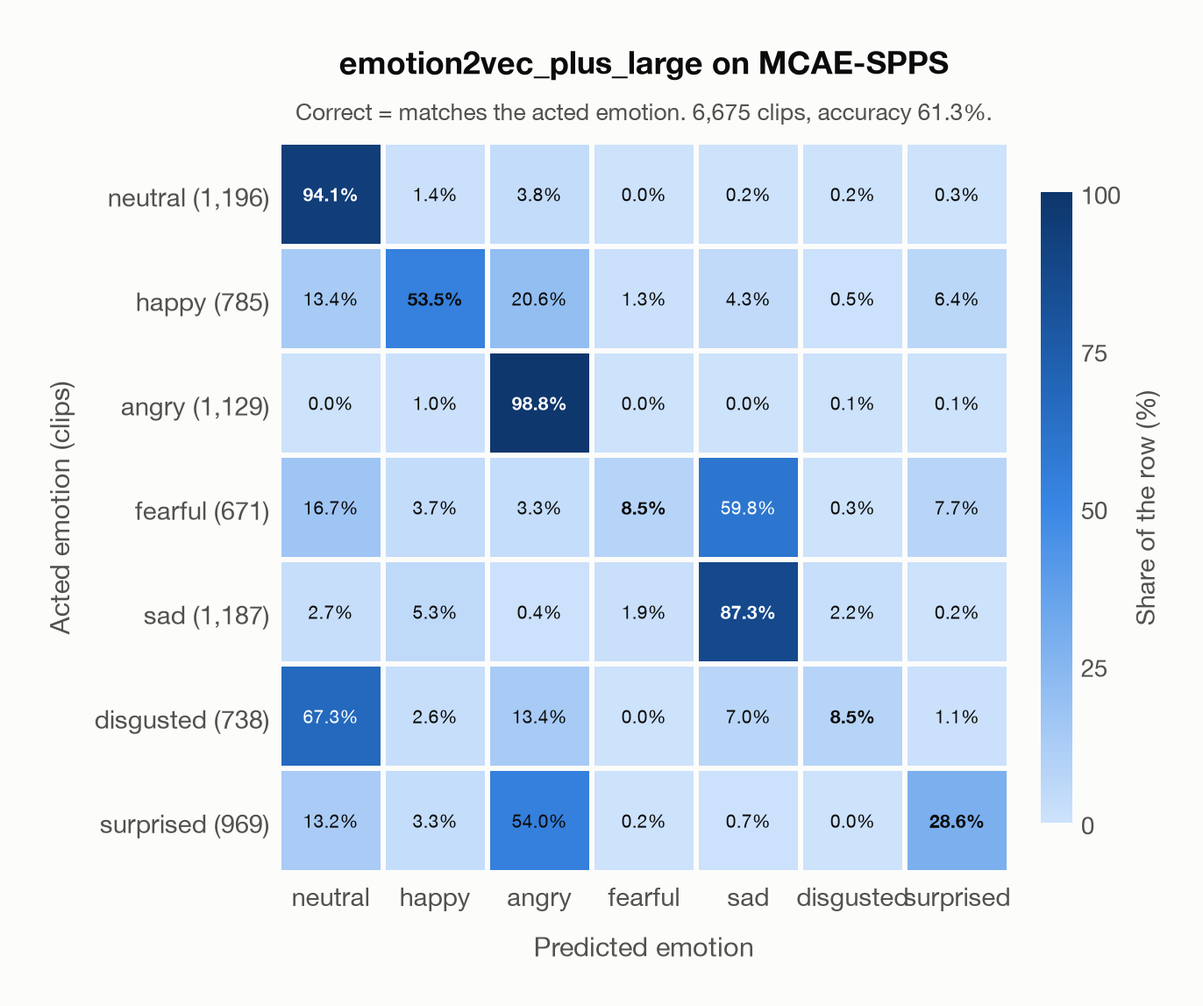
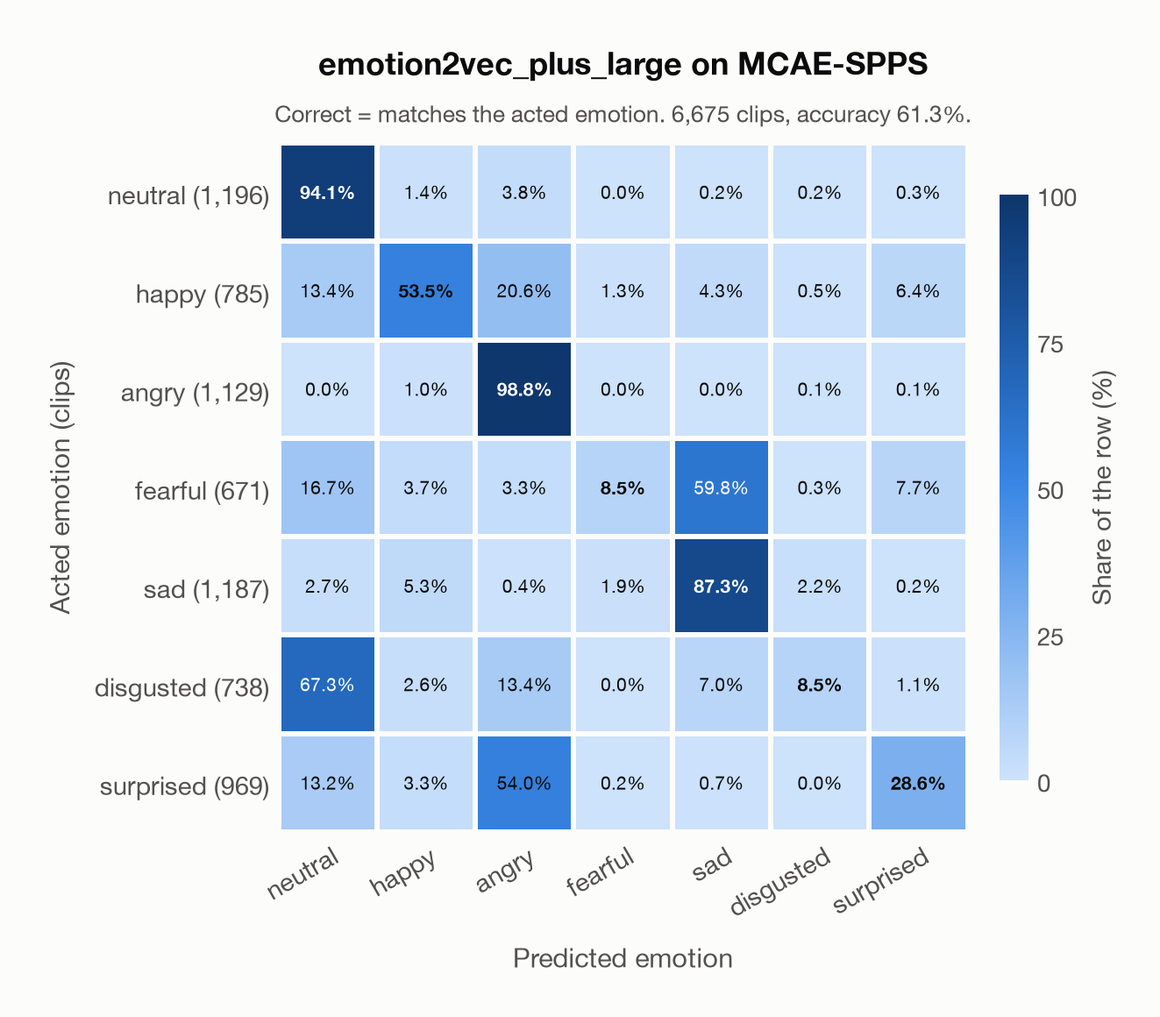
Add an English version of the dataset survey and all confusion matrices to the summary
- docs/datasets_survey_en.md: the survey in English, with the same tables and links as the Chinese one.
- The summary now shows every dataset's confusion matrix in one 2 x 3 figure, stitched from the reports'
  figures; CREMA-D uses its "acted emotion or listeners' vote" matrix (evaluation.summary_acted_or_listener).
- Confusion-matrix figures tilt the emotion names when there are 7 or more, so they no longer touch
  (MCAE-SPPS figures redrawn from its predictions).

Changed region(s): [[0.062, 0.0305, 0.9607, 0.9765], [0.031, 0.3357, 0.062, 0.6408]]

diff --git a/scripts/evaluate.py b/scripts/evaluate.py
@@ -7,6 +7,7 @@ Runs the model on every clip of a dataset, compares each prediction with the dat
     outputs/<dataset>_<model>_predictions.csv          one row per clip (read by scripts/make_viewer.py)
     outputs/<dataset>_<model>_predictions.json         what the CSV contains, and the metrics
     reports/<model>_summary.md                         every evaluated dataset side by side
+    reports/figures/<model>_summary_confusion.png      every dataset's confusion matrix in one figure
 The datasets are defined in scripts/eval_datasets.py; download them first with scripts/download_data.py.
 
 Usage:
@@ -99,7 +100,9 @@ def plot_confusion(cm, names, title, subtitle, ylabel, path):
                     fontweight="bold" if r == c else "normal", color=text_on(cmap(share[r, c] / 100)[:3]))
     ax.invert_yaxis()  # first emotion at the top, like the table
     ax.set_aspect("equal")  # square cells
-    ax.set_xticks(np.arange(len(names)) + 0.5, names)
+    crowded = len(names) > 6  # with 7 or more emotions the names would touch: tilt them
+    ax.set_xticks(np.arange(len(names)) + 0.5, names, rotation=30 if crowded else 0,
+                  ha="right" if crowded else "center", rotation_mode="anchor")
     ax.set_yticks(np.arange(len(names)) + 0.5, [f"{n} ({cm[k].sum():,})" for k, n in enumerate(names)])
     ax.tick_params(length=0, colors=INK_2, labelsize=10.5)
     ax.set_xlabel("Predicted emotion", color=INK_2, fontsize=11, labelpad=8)
@@ -116,6 +119,18 @@ def plot_confusion(cm, names, title, subtitle, ylabel, path):
     path.parent.mkdir(parents=True, exist_ok=True)
     fig.savefig(path, facecolor=SURFACE, bbox_inches="tight", pad_inches=0.25)  # keep every label inside the image
     plt.close(fig)
+
+
+def stitch(paths, path, columns=3):
+    """Put figures side by side in a grid, row by row; each sits in the centre of a cell as large as the largest."""
+    from PIL import Image
+    images = [Image.open(p).convert("RGBA") for p in paths]
+    columns = min(columns, len(images))
+    w, h = max(im.width for im in images), max(im.height for im in images)
+    grid = Image.new("RGBA", (columns * w, -(-len(images) // columns) * h), SURFACE)
+    for k, im in enumerate(images):
+        grid.paste(im, ((k % columns) * w + (w - im.width) // 2, (k // columns) * h + (h - im.height) // 2), im)
+    grid.convert("RGB").save(path, optimize=True)
 
 
 class Predictor:
@@ -391,9 +406,10 @@ def shared_scores(run, shared):
     return len(rows), hit.mean(), np.mean([hit[truth == e].mean() for e in shared if (truth == e).any()])
 
 
-def write_summary(model_name):
+def write_summary(model_name, acted_or_listener=()):
     """reports/<model>_summary.md: one row per evaluated dataset, read from the JSON files in outputs/. A dataset with
-    a full run and a sample (evaluation.limit) is shown with the run that has the most clips."""
+    a full run and a sample (evaluation.limit) is shown with the run that has the most clips. The datasets in
+    acted_or_listener show their "acted emotion or listeners' vote" confusion matrix in the summary figure."""
     order = list(LOADERS)
     out = ROOT / "outputs"
     best = {}
@@ -430,6 +446,27 @@ def write_summary(model_name):
           if sampled else []),
         "",
     ]
+    # Every dataset's confusion matrix (the figures of the reports) stitched into one figure
+    figures = ROOT / "reports" / "figures"
+    lenient = [r for r in runs if r["key"] in acted_or_listener
+               and (figures / f"{r['stem']}_confusion_acted_or_listener.png").exists()]
+    panels = [figures / f"{r['stem']}_confusion{'_acted_or_listener' if r in lenient else ''}.png" for r in runs]
+    panels = [p for p in panels if p.exists()]
+    if panels:
+        grid = figures / f"{model_name}_summary_confusion.png"
+        stitch(panels, grid)
+        summary += [
+            "## Confusion matrices",
+            "",
+            f"![Confusion matrices of {model_name} on every dataset]({grid.relative_to(ROOT / 'reports').as_posix()})",
+            "",
+            "One matrix per dataset, in the order of the table above, from each dataset's report. Rows: acted emotion; "
+            "columns: predicted emotion; each row adds up to 100%."
+            + (f" {', '.join(r['dataset'] for r in lenient)}: the matrix where a prediction also counts as correct when "
+               "it matches the listeners' vote, so a clip whose prediction matched that vote sits in the row of that vote "
+               "(`evaluation.summary_acted_or_listener` in config/config.yaml)." if lenient else ""),
+            "",
+        ]
     # The same comparison on the emotions that every dataset has, so that the choice of emotions does not matter
     shared = sorted(set.intersection(*(set(r["classes"]) for r in runs))) if len(runs) > 1 else []
     if shared:
@@ -527,7 +564,7 @@ def main():
     # Steps 4-6 for every dataset, then a summary of all evaluated datasets
     for key in keys:
         evaluate(LOADERS[key](), predict, labels, model_name, device, limit, {"funasr": funasr.__version__})
-    write_summary(model_name)
+    write_summary(model_name, settings["summary_acted_or_listener"])
 
 
 if __name__ == "__main__":

diff --git a/docs/datasets_survey_en.md b/docs/datasets_survey_en.md
@@ -1,0 +1,163 @@
+# Survey of emotional speech datasets like CREMA-D
+
+English translation of [datasets_survey.md](datasets_survey.md) (Chinese); the two have the same content.
+
+Survey date: 2026-10-23. Goal: find datasets that, like CREMA-D, have the same sentences spoken in different emotions (so
+the words give no clue), high-quality labels and more data, to evaluate emotion recognition models and audio large
+language models (audio LLMs).
+
+Method: searched papers, official project pages, GitHub, Hugging Face, Zenodo, OSF and similar sources, and collected the
+information on each dataset.
+Sizes are in decimal GB, from the file listings of each platform's API or from HTTP requests; "about" marks an estimate,
+and "not published" means the platform gives no size.
+"Unverified" marks numbers that could not be confirmed from a primary source. ✅ marks the datasets downloaded locally
+(see section 6); for these, the number of clips, the duration and the sampling rate were measured after downloading.
+
+## 0. Key points
+
+- **CREMA-D itself is in EmoBox**, so emotion2vec+'s results on CREMA-D are not held-out results.
+  ESD, MEAD, RAVDESS, TESS, SAVEE, EmoDB, CASIA, Emozionalmente, SUBESCO, JL-Corpus, CaFE, EMOVO and EmoV-DB from the candidate list are in EmoBox too.
+- **What is public about emotion2vec+'s training data:**
+  - seed was fine-tuned on the academic data of EmoBox (201 h). EmoBox has about 294 h in total, and the subsets used are not listed, so to be safe all of EmoBox is treated as data the model has seen.
+  - base and large were fine-tuned on "filtered large-scale pseudo-labelled data" (4,788 h and 42,526 h). The authors say the data engineering details will be published later; the sources of the pseudo-labelled data are unknown, so no public dataset can be ruled out 100%.
+  - emotion2vec's pre-training used IEMOCAP, MELD, CMU-MOSEI, MEAD and MSP-Podcast.
+- **Best "clean" candidates (none in EmoBox)**: MCAE-SPPS (Mandarin, 2025/26), THAI-SER (Thai, the largest), the target sentences of MSP-IMPROV (English), nEMO (Polish, 2024).
+- **English**: no dataset was found that is large, text-parallel, perceptually validated and not in EmoBox all at once; the only option is to combine MSP-IMPROV, MESS and Expresso.
+- **Evidence for this approach**: [LISTEN](https://arxiv.org/abs/2510.10444) (2025) tested audio LLMs on the text-neutral sentences of CREMA-D, ESD, TESS, SAVEE and RAVDESS.
+  With audio only, accuracy was just 16.5–34.9% ([Qwen2.5-Omni](https://arxiv.org/abs/2503.20215) 34.0%, [Gemini 2.5 Pro](https://arxiv.org/abs/2507.06261) 34.9%); with text only it was 85–97%.
+  So these models rely mainly on "turning speech into text" rather than really listening to the voice.
+
+## 1. High-quality datasets (not in EmoBox)
+
+| # | Dataset (year, language) | Speakers / clips / duration / **size** | Emotions; intensity | Parallel-text design | Label quality | Audio; modality | Licence; access | Links |
+|---|---|---|---|---|---|---|---|---|
+| 1 | **MCAE-SPPS** ✅ (DataPort 2025-01, Sci Data 2026-03; Mandarin) | 6 professional actors (3 male, 3 female) / 6,675 clips (8,400 recorded, 8,379 rated) / 2.3 h / **0.65 GB** (7 zips, one per emotion) | neutral, happy, sad, angry, fearful, disgusted, surprised, one-to-one with the emotion2vec+ classes; perceived intensity ratings (1–9) | 200 sentences × 7 emotions × 6 actors | each clip rated by 40 native listeners (choice of 1 of 7 emotions plus intensity; 720 listeners in total); a clip was kept if the target emotion got ≥43% of the votes and every other emotion <43%; recognition rate per emotion 60–82% (figures of the DataPort version) | professional sound-proof booth, 48 kHz mono; audio only | CC BY-NC-ND 4.0; public on OSF. Note: on OSF the per-emotion zips hold all 6,675 clips, the loose per-emotion folders only 6,460; the IEEE DataPort copy needs a subscription | [OSF 9jyzc](https://osf.io/9jyzc/); [IEEE DataPort (subscription)](https://ieee-dataport.org/documents/mandarin-chinese-auditory-emotions-stimulus-database-validated-set-subject-personal) |
+| 2 | **THAI-SER** ✅ (data 2021, paper 2025; Thai) | 200 professional actors / 27,854 clips (scripted ≈17,711 + improvised ≈10,143) / 41.6 h / **12.71 GB** (HF Parquet; GitHub zip version 12.61 GB) | neutral, angry, happy, sad, frustrated; 2 acted intensity levels in the scripted part | scripted part: 3 sentences × 5 emotions × 2 intensities × 2 takes; the improvised part is not parallel | crowd-sourced, 3–8 raters per clip; gives both the assigned label and the majority label, plus the agreement; after filtering Krippendorff's α = 0.692, human accuracy 0.772; high-agreement subset (agreement ≥0.71) of 14,182 clips | 80 studio sessions (one type of room not sound-treated) + 20 Zoom sessions; 44.1 / 48 kHz; up to 4 microphones per clip; audio only | **CC BY-SA 4.0** (commercial use allowed); direct download | [HF airesearch/thai-ser](https://huggingface.co/datasets/airesearch/thai-ser); [GitHub release v1](https://github.com/vistec-AI/dataset-releases/releases/tag/v1) |
+| 3 | **MSP-IMPROV** (2017; American English) | 12 actors (6 pairs) / 8,438 turns in total; the controlled-text part is 652 target sentences + 620 read sentences / duration unverified / **not published** (provided after signing an agreement, includes video) | angry, happy, sad, neutral; no acted intensity, but dimensional ratings of valence and arousal | 20 target sentences × 4 emotional scenarios × 12 actors; the target sentences are spoken inside improvised dialogues, plus read versions | crowd-sourced on MTurk, ≥5 raters per turn | audio and video; sampling rate unverified | academic licence, agreement required; commercial licence USD 8,000 | [Official page (moved to lab-msp.com)](https://www.lab-msp.com/MSP/MSP-Improv.html); [Academic licence PDF](https://www.lab-msp.com/MSP/publications/AcademicLicense-MSP-IMPROV.pdf) |
+| 4 | **nEMO** ✅ (2024; Polish) | 9 speakers (4 female, 5 male; 3 are professional voice actors) / 4,481 clips / 3.07 h / **0.53 GB** (HF Parquet) | angry, fearful, happy, sad, surprised, neutral; no intensity | 90 sentences (designed for phoneme coverage) × 6 emotions × 9 speakers | human evaluation kept only recordings with accurate expression (about 92% kept, estimated from 4,860); no agreement figures reported | recorded at home with condenser microphones, 24 kHz / 16-bit; audio only | CC BY-NC-SA 4.0; direct download | [HF amu-cai/nEMO](https://huggingface.co/datasets/amu-cai/nEMO); [GitHub](https://github.com/amu-cai/nEMO) |
+| 5 | **HCUDB 1+2** (release year unverified, funded in fiscal years 2014–2016; Japanese) | 14 + 20 professional actors / 4,620 + 6,600 clips / duration unverified / **not published** (distributed on 1 DVD, ≤4.7 GB) | 11 classes (based on Russell's circumplex model of emotion, including surprise, anger, contempt and sleepiness/tiredness); no acted intensity | HCUDB1: 10 sentences × 11 emotions × 3 takes; HCUDB2: 5 of these sentences × 11 emotions × 3 takes × 2 acting methods | in HCUDB1 each clip was rated by 16 people (valence/arousal, how well each class fits, naturalness); HCUDB2 has no ratings | 48 kHz / 16-bit; audio only | research only, free; application required, documents in Japanese | [NII-SRC HCUDB](https://research.nii.ac.jp/src/en/HCUDB.html); [NII-SRC application](https://research.nii.ac.jp/src/en/register.html) |
+| 6 | **MCAE pseudo-sentences** (2023; Mandarin pseudo-sentences) | 6 professional actors / 4,361 clips after validation (the OSF Audio folder has 4,561 files) / duration unverified / **2.42 GB** (loose files, no zip) | happy, sad, angry, fearful, disgusted, pleasant surprise, neutral; 2 intensity levels (normal / strong, except neutral) | pseudo-sentences without word meaning × 2 sentence types (statement / question) × 7 emotions × 2 intensities | each clip judged by 40 native listeners (forced choice) | sampling rate unverified; audio only | licence unverified; OSF view-only link | [OSF view-only link (project name MCAE-NS)](https://osf.io/sfbm6/?view_only=e22a521e2a7d44c6b3343e11b88f39e3) |
+| 7 | **MESS** ✅ (2019; American English) | 6 speakers (3 male, 3 female) / 1,800 clips (public Zenodo version; designed as 90 sentences × 4 emotions × 6 speakers = 2,160) / 1.3 h / **0.19 GB** (zip) | angry, calm, happy, sad; perceived activation and pleasantness ratings | 90 sentences × 4 emotions × 6 speakers | in the paper each clip was rated by 10 listeners (category + two dimensions), but **the ratings must be requested from the author**; the Zenodo package has only the acted labels (in the file names) | 24,414 Hz mono; audio only | CC BY 4.0; direct download (note: not the MESD that is in EmoBox) | [Zenodo 3813437](https://zenodo.org/records/3813437) |
+| 8 | **MASC** (LDC2007S09, 2007; Mandarin) | 68 speakers (23 female, 45 male) / 25,636 clips / duration not published / **not published** (about 0.5 GB, estimated from 8 kHz / 16-bit, plus the original WMA files) | neutral, angry, elated, panic, sad; no intensity | in every emotion the same set of 5 phrases and 20 sentences (12 with neutral content; the other 8, 2 for each of the four emotions), each read 3 times; plus 2 neutral paragraphs | acted labels only; the documentation mentions no listening test | recorded with a voice recorder in a quiet office (22.05 kHz); released as 8 kHz / 16-bit, with the original 44 kHz WMA files | LDC licence, paid for non-members | [LDC2007S09](https://catalog.ldc.upenn.edu/LDC2007S09) |
+
+**Why this ranking:**
+
+1. **MCAE-SPPS**: the closest to "a better CREMA-D". Parallel design, perceptual labels from 40 listeners and intensity ratings for every clip; its 200 sentences have far more lexical variety than CREMA-D's 12;
+   its 7 classes match those of emotion2vec+ exactly. Released only in 2025, and no record was found of any audio LLM trained or evaluated on it.
+   Drawbacks: only 6 speakers; NC-ND licence.
+   Citation: Li M, Zhou A, Yan H, Li Q, Ma C, Wu C. *Scientific Data*, 2026, doi:10.1038/s41597-026-06976-z; data doi:10.17605/OSF.IO/9JYZC.
+2. **THAI-SER**: the most speakers, crowd-sourced perceptual labels with agreement, two intensity levels, and the most permissive licence.
+   Drawbacks: the scripted part has only 3 sentences; "frustrated" has no counterpart in emotion2vec+, so using only neutral, angry, happy and sad is recommended.
+   [VoxEmo](https://arxiv.org/abs/2603.08936) (2026) has already used it for zero-shot evaluation of [Qwen2-Audio](https://arxiv.org/abs/2407.10759) and [AF3](https://arxiv.org/abs/2507.08128) (evaluation only, no training). Citation: arXiv:2507.09618.
+3. **MSP-IMPROV**: the most established English data with "controlled text + crowd-sourced perceptual labels + not in EmoBox".
+   Drawbacks: the controlled-text part has only about 1.3k clips, an agreement must be signed, and [OSUM](https://arxiv.org/abs/2501.13306) has used it as a test set. Citation: Busso et al., IEEE TAC 8(1):119–130, 2017.
+4. **nEMO**: new data from 2024, fully parallel, direct download; its emotions are close to CREMA-D's (no disgust, but surprise).
+   Drawbacks: small, recorded at home; VoxEmo has evaluated on it. Citation: Christop, LREC-COLING 2024, pp. 12111–12116.
+5. **HCUDB**: 34 professional actors and 11,220 clips, with the same sentences recorded in many emotions; HCUDB1 has dimensional ratings, useful for intensity analysis.
+   Drawbacks: mapping its 11 classes to emotion2vec+ needs compromises; the application process is in Japanese.
+6. **MCAE pseudo-sentences**: word meaning is removed completely, so a model can only judge by the voice; the best test of "does the model really listen"; two intensity levels. Drawback: fewer clips than CREMA-D.
+   Citation: Gong et al., *Behavior Research Methods* 55(3):1441–1459, 2023.
+7. **MESS**: a small English supplement, parallel, CC BY licence. Drawbacks: "calm" instead of "neutral", only 4 classes; the public version has acted labels only.
+   Citation: Morgan, JSLHR 62(11), 2019.
+8. **MASC**: the only Mandarin data with "many speakers + large + parallel", useful to test generalisation across speakers. Drawbacks: 8 kHz, no listening test, paid.
+
+## 2. High-quality datasets (in EmoBox)
+
+These datasets are in EmoBox, so they cannot serve as clean test sets for emotion2vec+, but they can be used to test audio LLMs, or as a reference.
+
+| Dataset (year, language) | Scale / **size** | Emotions; intensity | Parallel design | Labels | Audio; licence | Known use by audio LLMs | Links |
+|---|---|---|---|---|---|---|---|
+| ESD ✅ (2021, English + Mandarin) | 20 speakers / 35,000 clips / 29.1 h / **2.45 GB** (zip) | 5 classes; no intensity | 350 sentences × 5 emotions per speaker | acted labels only; the paper checked them only with an automatic emotion recognition model (Mandarin 92%, English 89%), no listening test | recorded indoors, SNR > 20 dB, 16 kHz; research only, apply with a form and an email | [Kimi-Audio](https://arxiv.org/abs/2504.18425) SFT (29 h); [OSUM](https://arxiv.org/abs/2501.13306) training and test; [LISTEN](https://arxiv.org/abs/2510.10444); [VoxEmo](https://arxiv.org/abs/2603.08936) | [GitHub (licence form + Google Drive link)](https://github.com/HLTSingapore/Emotional-Speech-Data) |
+| MEAD (2020, English) | 60 speakers (the public Part0 has only 48, confirmed) / 31,729 clips / 37.3 h / **audio 3.07 GB** (audio.tar of the 48 speakers); video about 0.4 TB | 8 classes; 3 intensity levels | 30 sentences per emotion (3 common + 7 related to that emotion + 20 general), with a different sentence list for each emotion; the intensities of one emotion use the same sentences | video evaluation with 100 participants | 48 kHz, audio and video; terms of use | [emotion2vec](https://arxiv.org/abs/2312.15185) pre-training; [VoxEmo](https://arxiv.org/abs/2603.08936) | [Google Drive Part0](https://drive.google.com/drive/folders/1GwXP-KpWOxOenOxITTsURJZQ_1pkd4-j); [Baidu Netdisk (extraction code th8e)](https://pan.baidu.com/s/1zYKz19kmQH6vnO2nogPk4Q); [GitHub](https://github.com/uniBruce/Mead) (the official project page now returns 404) |
+| RAVDESS (2018, English) | 24 speakers / 1,440 clips / 1.5 h / **speech audio 0.208 GB**; everything (with song and video) 25.6 GB | 8 classes; 2 intensity levels | 2 sentences | each file rated 10 times (247 raters in total) | 48 kHz, audio and video; CC BY-NC-SA | [Kimi-Audio](https://arxiv.org/abs/2504.18425) SFT; [AF1](https://arxiv.org/abs/2402.01831)/[AF2](https://arxiv.org/abs/2503.03983) zero-shot evaluation | [Zenodo 1188976](https://zenodo.org/records/1188976) |
+| Emozionalmente (Italian) | 431 speakers / 6,902 clips / 6.3 h / **0.559 GB** (v1.1) | 7 classes | 18 sentences | 829 listeners, 5 ratings per clip, human UAR 66% | 16 kHz, non-professional equipment; CC BY 4.0 | [VoxEmo](https://arxiv.org/abs/2603.08936) | [Zenodo 12616095 (v1.1)](https://zenodo.org/records/12616095); [OpenSLR 161](https://openslr.org/161/) |
+| SUBESCO (2021, Bangla) | 20 speakers / 7,000 clips / 7.8 h / **1.665 GB** | 7 classes | 10 sentences × 5 takes | 50 raters, 71% accuracy | CC BY 4.0 | [VoxEmo](https://arxiv.org/abs/2603.08936) | [Zenodo 4526477](https://zenodo.org/records/4526477) |
+| CaFE (2018, Canadian French) | 12 speakers / 936 clips / **0.187 GB** (48 kHz version; 192 kHz version 2.03 GB) | 7 classes; 2 intensity levels | 6 sentences | unverified | 192 kHz and 48 kHz; CC BY-NC-SA | [VoxEmo](https://arxiv.org/abs/2603.08936) | [Zenodo 1478765](https://zenodo.org/records/1478765) |
+| EmoDB / **EmoDB 2.0** (2025, German) | 10 speakers / 535 clips; version 2.0 adds 281 "ambiguous" clips (817 in total) / **0.041 GB** (original); version 2.0 about 0.11 GB | 7 classes | 10 sentences | agreement and naturalness ratings from 20 judges | recorded in an anechoic chamber; the audb version 2.0 is CC0-1.0 | the 281 new clips are not in EmoBox and can be used to test ambiguous samples | [Original emodb.bilderbar.info](http://emodb.bilderbar.info/); [audb emodb 2.0.0](https://github.com/audeering/emodb) ([description](https://audeering.github.io/datasets/datasets/emodb.html)) |
+| EMOVO (Italian) | 6 speakers / 588 clips / **0.253 GB** (unofficial Kaggle mirror) | 7 classes | 14 sentences | two groups of 24 listeners, 80% overall | — | [VoxEmo](https://arxiv.org/abs/2603.08936) | the official site voice.fub.it was unreachable on the day; [Kaggle mirror](https://www.kaggle.com/datasets/sourabhy/emovo-italian-ser-dataset); [DagsHub mirror](https://dagshub.com/DagsHub/audio-datasets/src/main/EMOVO) |
+| TESS (English) | 2 speakers / 2,800 clips / **0.281 GB** | 7 classes | 200 words × the carrier phrase "Say the word ___" | unverified | CC BY-NC 4.0 | [AF1](https://arxiv.org/abs/2402.01831) training | [Borealis Dataverse](https://borealisdata.ca/dataset.xhtml?persistentId=doi:10.5683/SP2/E8H2MF) |
+| SAVEE (British English) | 4 speakers / 480 clips / official version **not published**; unofficial audio-only Kaggle mirror 0.113 GB | 7 classes | 15 sentences per emotion, only 3 of them shared across emotions | 10 evaluators (the official site had a certificate error, so this could not be re-checked on the day) | audio and video | [Kimi-Audio](https://arxiv.org/abs/2504.18425) SFT | [Download page (log in after registering)](http://kahlan.eps.surrey.ac.uk/savee/Download.html); [Registration](http://www.ee.surrey.ac.uk/Personal/P.Jackson/SAVEE/Register.html); [Kaggle mirror](https://www.kaggle.com/datasets/ejlok1/surrey-audiovisual-expressed-emotion-savee) |
+| CASIA (Mandarin) | 4 speakers / 1,200 clips / official version **not published**; Kaggle mirror 0.059 GB (unofficial, licence unclear) | 6 classes | parallel (unverified) | acted labels only | licence unclear | [VoxEmo](https://arxiv.org/abs/2603.08936) | official source unverified; [Kaggle mirror](https://www.kaggle.com/datasets/rocklagoon/casia-emotion-recognition) |
+| JL-Corpus (New Zealand English) | 4 speakers / 2,400 clips / **0.948 GB** | 5 primary + 5 secondary emotions | unverified | tested with 120 people: about 70% for the primary emotions, about 40% for the secondary ones | CC0 | [AF1](https://arxiv.org/abs/2402.01831) training | [Kaggle (uploaded by the author)](https://www.kaggle.com/datasets/tli725/jl-corpus); [GitHub](https://github.com/tli725/JL-Corpus) |
+| EmoV-DB (English) | 4 speakers / 6,887 clips / 9.5 h / **about 1.41 GB** (18 tar.gz files) | neutral, amused, angry, disgusted, sleepy | CMU Arctic sentences, parallel across emotions | acted labels only; laughter or yawns often before or after the sentence | non-commercial | [AF1](https://arxiv.org/abs/2402.01831) training; EmoV-DB audio files appear in the SFT examples of the [Qwen-Audio](https://arxiv.org/abs/2311.07919) paper | [OpenSLR 115](https://openslr.org/115/); [GitHub](https://github.com/numediart/EmoV-DB) |
+
+Note: AF1 and AF2 are NVIDIA's Audio Flamingo 1 and 2; emotion2vec is the pre-trained model that emotion2vec+ builds on, not an audio LLM; LISTEN and VoxEmo are not models but papers that evaluate audio LLMs on these datasets (section 4 lists which models).
+
+## 3. Not in EmoBox, but small, not parallel, or with flawed labels or audio
+
+| Dataset (year, language) | Scale / **size** | Key design | Labels | Licence / access | Main problems | Links |
+|---|---|---|---|---|---|---|
+| **Expresso** (2023, English) | 4 speakers; read speech 11,615 clips / 11.5 h, improvised 34.4 h / **38.44 GB** (expresso.tar, with the improvised dialogues); the HF community mirror has only the read part, 5.76 GB | the same texts read in 7 styles (default, happy, sad, confused, enunciated, laughing, whisper) | no perceptual validation | CC BY-NC 4.0, open download | few emotions; the best audio quality (professional studio, 48 kHz / 24-bit); Meta's [SpiRit-LM](https://arxiv.org/abs/2402.05755) used it to train a style tokenizer | [Official download instructions](https://github.com/facebookresearch/textlesslib/tree/main/examples/expresso/dataset); [expresso.tar direct link](https://dl.fbaipublicfiles.com/textless_nlp/expresso/data/expresso.tar); [HF community mirror](https://huggingface.co/datasets/ylacombe/expresso) |
+| KESDy18 (2018, Korean) | 30 voice actors / 2,880 clips / **not published** | 20 sentences × 4 emotions | 6 annotators, 7 classes + arousal/valence (1–5) | ETRI licence agreement (site unreachable on the day) | — | [ETRI nanum](https://nanum.etri.re.kr/share/kjnoh2/KESDy18?lang=En_us) |
+| IITKGP-SEHSC (Hindi) | 10 speakers / 12,000 clips / about 9 h / **not published** (about 1 GB, estimated from 16 kHz / 16-bit) | 15 sentences × 8 emotions × 10 sessions | unverified | apply to IIT Kharagpur | 16 kHz | [Author's resource page](https://cse.iitkgp.ac.in/~ksrao/res.html); [Declaration PDF](https://cse.iitkgp.ac.in/~ksrao/pdf/declaration.pdf) |
+| CAVES (2024, Cantonese) | 10 speakers / 3,475 clips / **not published** (includes 1080p / 50 fps video) | 50 semantically neutral sentences × 7 emotions | 15 listeners | research only, application form | small (recorded in a sound-proof booth at 48 kHz, audio and video) | [Application form](https://forms.office.com/r/3VfeWQnAVa) |
+| OGVC acted part (Japanese) | 4 speakers / 2,656 clips / **not published** (the full set, with natural dialogues, is distributed on 2 DVDs) | the same lines recorded in different emotions, 4 intensity levels | unverified | NII-SRC, free | small | [NII-SRC OGVC](https://research.nii.ac.jp/src/en/OGVC.html); [NII-SRC application](https://research.nii.ac.jp/src/en/register.html) |
+| MCAE-Monosyllable (2025, Mandarin) | 6 speakers / 18,089 clips / **1.18 GB** (loose files) | 422 monosyllables × 7 emotions | 720 raters + intensity ratings | OSF | monosyllables only, not sentences | [OSF h3uem](https://osf.io/h3uem/) |
+| BERSt (2025, English with many accents) | 98 speakers / 4,526 clips / 3.75 h / **1.06 GB** (Parquet; original WAV 1.27 GB; whole repository 3.18 GB) | 14 nonsense phrases × 7 emotions × speaking/shouting/screaming | intended labels only | the Hugging Face card says CC BY, the paper CC BY-SA | actors recorded at home on their phones, including far-field recordings; not a clean test set | [HF Rosie-Lab/BERSt](https://huggingface.co/datasets/Rosie-Lab/BERSt) |
+| EmoTale (2025, Danish + English) | 18 speakers / 800 clips / **0.43 GB** | 5 sentences × 5 emotions | κ 0.71–0.85 | a copyright notice but no formal licence (GitHub) | very small | [GitHub](https://github.com/snehadas/EmoTale) |
+| Thorsten Emotional (2021, German) | 1 speaker / 2,400 clips / **0.399 GB** | 300 sentences × 8 styles | none | CC0 | a single speaker | [OpenSLR 110](https://openslr.org/110/); [Zenodo 5525023](https://zenodo.org/records/5525023) |
+| GEMEP (2012, pseudo-language) | 10 speakers; core set of 145 clips / **not published** | pseudo-language sentences, 18 classes | 1,260 clips validated | conditions of use must be signed; the full set is restricted | the accessible part is too small | [Core set page](https://www.unige.ch/cisa/gemep/coreset); [Conditions of use form (PDF)](https://www.unige.ch/cisa/download_file/view/143/304) |
+| EARS (2024, English) | 107 speakers, about 100 h in total / **69.17 GB** (107 zips, one per speaker; the emotional part cannot be downloaded on its own) | 22 emotions + neutral | none | CC BY-NC 4.0 | **not parallel**: each emotion uses different sentences whose content fits it, so the words themselves give the emotion away | [GitHub](https://github.com/facebookresearch/ears_dataset); [release "dataset"](https://github.com/facebookresearch/ears_dataset/releases/tag/dataset) |
+| CSEMOTIONS (2025, Mandarin) | 10 speakers / 4,160 clips / 10.2 h / **3.08 GB** (Parquet) | 7 classes | not reported | Apache-2.0 | **not parallel**, the text matches the emotion; usable as a "lexical cue" control | [HF ATH-MaaS/CSEMOTIONS](https://huggingface.co/datasets/ATH-MaaS/CSEMOTIONS) (formerly AIDC-AI/CSEMOTIONS, which redirects) |
+| KazEmoTTS (2024, Kazakh) | 3 speakers / 54,760 clips / 74.9 h / **10.46 GB** (EmoKaz.zip) | each sentence has only one emotion | only 22% for anger in the listening test | CC BY 4.0 | not parallel, poor label quality | [HF issai/KazEmoTTS](https://huggingface.co/datasets/issai/KazEmoTTS); [GitHub](https://github.com/IS2AI/KazEmoTTS) |
+| EmoNet-Voice Bench (2025) | 12,600 clips / **1.08 GB** (3 Parquet files) | 40 classes | expert annotation, Cronbach's α 0.14 | CC BY 4.0 | speech synthesised with GPT-4o, not parallel; the data repository is under an anonymous account, linked from LAION's official collection | [HF emonet-voice-bench](https://huggingface.co/datasets/t1a5anu-anon/emonet-voice-bench); [LAION EmoNet collection](https://huggingface.co/collections/laion/emonet-6855238709fb1b2a7295d4ed) |
+| mExpresso (2023) | — / **0.0033 GB** (text only) | Expresso's 7 styles translated into 5 languages, including Chinese | — | only the text is public; the audio was not released | not usable for now | [Official notes](https://github.com/facebookresearch/seamless_communication/blob/main/docs/expressive/README.md); [Text tar](https://dl.fbaipublicfiles.com/seamless/datasets/mexpresso_text/mexpresso_text.tar) |
+
+## 4. Notes
+
+- **Non-commercial or restrictive licences**: MCAE-SPPS (NC-ND: fine for evaluation, but modified audio may not be published), nEMO (NC-SA), Expresso and EARS (NC), RAVDESS and CaFE (NC-SA),
+  TESS (NC), ESD (research only), EmoV-DB (non-commercial), HCUDB and OGVC (research only), MSP-IMPROV (academic licence), MASC (paid LDC licence).
+  Permissive licences: THAI-SER (BY-SA), MESS, Emozionalmente and SUBESCO (BY), CSEMOTIONS (Apache), Thorsten (CC0).
+- **Registration or application required**: MSP-IMPROV (agreement), ESD (form + email), HCUDB and OGVC (NII-SRC, in Japanese), KESDy18 (ETRI), MASC (LDC), IITKGP, GEMEP,
+  CAVES (form), MCAE pseudo-sentences (view-only link), IEEE DataPort (subscription).
+- **Unofficial mirrors such as Kaggle** (EMOVO, SAVEE, CASIA): their content and licence have no official guarantee; where possible, check them against the original source before use.
+- **Known label and audio problems**:
+  - THAI-SER: the assigned and crowd-majority labels often disagree, so using only the subset with agreement ≥0.71 is recommended; some recordings come from Zoom or from untreated rooms; always use the same one of the 4 microphones.
+  - MCAE-SPPS: the 43% threshold for keeping a clip is lenient; the classes are unbalanced after filtering (angry 1,129 clips, fearful 671, neutral and sad about 1,190).
+    For strictly parallel comparisons, use the subset where the same speaker and sentence kept all 7 emotions. The loose per-emotion folders on OSF are incomplete; use the per-emotion zips.
+  - MESS: the public Zenodo version has only 1,800 clips and acted labels; the listeners' ratings must be requested from the author.
+  - nEMO: only 3 of the 9 speakers are professional voice actors; there is no predefined data split.
+  - MSP-IMPROV: the target sentences are spoken inside improvised dialogues, so the perceived labels may differ from the intended emotion.
+  - ESD: no listening test; 16 kHz. MEAD: only some sentences are parallel across emotions. MASC: 8 kHz, and the original files are lossy WMA. HCUDB2: no ratings.
+- **Which data audio LLMs have used (only where a source says so)**:
+  - [Kimi-Audio](https://arxiv.org/abs/2504.18425)'s SFT used IEMOCAP, MELD, RAVDESS, SAVEE and ESD.
+  - [OSUM](https://arxiv.org/abs/2501.13306) trained on ESD, IEMOCAP, MSP-Podcast, MER2023, MELD and BIIC-Podcast, and tested on IEMOCAP, MER2023, M3ED, **MSP-IMPROV** and ESD.
+  - [Audio Flamingo](https://arxiv.org/abs/2402.01831) trained on MSP-Podcast, EmoV-DB, JL-Corpus, TESS, MELD and OMGEmotion; CREMA-D and RAVDESS were explicitly excluded from training and used only for zero-shot evaluation.
+    [AF2](https://arxiv.org/abs/2503.03983) also evaluated zero-shot on CREMA-D and RAVDESS, and [AF3](https://arxiv.org/abs/2507.08128) evaluated on IEMOCAP.
+  - [SALMONN](https://arxiv.org/abs/2310.13289): trained on IEMOCAP sessions 1–4 and tested on session 5.
+  - [Qwen-Audio](https://arxiv.org/abs/2311.07919): under 1k hours of emotion recognition training data, without names; EmoV-DB files appear in its SFT examples; evaluated on MELD.
+  - [Qwen2-Audio](https://arxiv.org/abs/2407.10759) and [Qwen2.5-Omni](https://arxiv.org/abs/2503.20215): only report evaluation on MELD; training data not published.
+  - Gemini: training data not published; the third-party [LISTEN](https://arxiv.org/abs/2510.10444) evaluated [Gemini 2.5](https://arxiv.org/abs/2507.06261) on CREMA-D, ESD, TESS, SAVEE and RAVDESS.
+  - [VoxEmo](https://arxiv.org/abs/2603.08936) (2026) evaluated Qwen2-Audio-7B-Instruct and AF3 zero-shot on 35 corpora, including THAI-SER, nEMO, ESD, MEAD and CREMA-D.
+  - **No record was found of any audio LLM trained or evaluated on MCAE (SPPS and pseudo-sentences), HCUDB, MESS or MASC.**
+
+## 5. Main sources
+
+- EmoBox: https://github.com/emo-box/EmoBox ; emotion2vec+: https://github.com/ddlBoJack/emotion2vec , https://huggingface.co/emotion2vec/emotion2vec_plus_large ; emotion2vec paper: https://arxiv.org/abs/2312.15185
+- MCAE-SPPS: https://pmc.ncbi.nlm.nih.gov/articles/PMC13079751/ , https://doi.org/10.17605/OSF.IO/9JYZC , https://ieee-dataport.org/documents/mandarin-chinese-auditory-emotions-stimulus-database-validated-set-subject-personal
+- THAI-SER: https://arxiv.org/abs/2507.09618 , https://huggingface.co/datasets/airesearch/thai-ser
+- MSP-IMPROV: https://www.lab-msp.com/MSP/MSP-Improv.html , https://www.lab-msp.com/MSP/publications/AcademicLicense-MSP-IMPROV.pdf
+- nEMO: https://aclanthology.org/2024.lrec-main.1059/ , https://huggingface.co/datasets/amu-cai/nEMO
+- HCUDB: https://research.nii.ac.jp/src/en/HCUDB.html ; OGVC: https://research.nii.ac.jp/src/en/OGVC.html
+- MCAE pseudo-sentences: https://doi.org/10.3758/s13428-022-01868-7 ; MESS: https://zenodo.org/records/3813437 ; MASC: https://catalog.ldc.upenn.edu/LDC2007S09 (documentation: https://catalog.ldc.upenn.edu/docs/LDC2007S09/readme.pdf )
+- ESD: https://github.com/HLTSingapore/Emotional-Speech-Data , https://arxiv.org/abs/2105.14762 ; MEAD: https://github.com/uniBruce/Mead , https://www.ecva.net/papers/eccv_2020/papers_ECCV/papers/123660698.pdf ; RAVDESS: https://zenodo.org/records/1188976
+- Emozionalmente: https://zenodo.org/records/12616095 ; SUBESCO: https://zenodo.org/records/4526477 ; CaFE: https://zenodo.org/records/1478765 ; EmoDB 2.0: https://www.isca-archive.org/interspeech_2025/burkhardt25_interspeech.pdf ; TESS: https://borealisdata.ca/dataset.xhtml?persistentId=doi:10.5683/SP2/E8H2MF ; EmoV-DB: https://github.com/numediart/EmoV-DB
+- Expresso: https://speechbot.github.io/expresso/ , https://arxiv.org/abs/2308.05725 ; EARS: https://github.com/facebookresearch/ears_dataset , https://arxiv.org/abs/2406.06185 ; CSEMOTIONS: https://huggingface.co/datasets/ATH-MaaS/CSEMOTIONS ; BERSt: https://arxiv.org/abs/2505.00059 ; EmoTale: https://arxiv.org/abs/2508.14548 ; CAVES: https://pmc.ncbi.nlm.nih.gov/articles/PMC11289252/ ; KESDy18: https://nanum.etri.re.kr/share/kjnoh2/KESDy18?lang=En_us ; KazEmoTTS: https://arxiv.org/abs/2404.01033 ; EmoNet-Voice: https://arxiv.org/abs/2506.09827 ; mExpresso: https://github.com/facebookresearch/seamless_communication/blob/main/docs/expressive/README.md ; GEMEP: https://www.unige.ch/cisa/gemep ; Thorsten: https://openslr.org/110/
+- Audio LLMs: LISTEN https://arxiv.org/abs/2510.10444 ; VoxEmo https://arxiv.org/abs/2603.08936 ; Kimi-Audio https://arxiv.org/abs/2504.18425 ; OSUM https://arxiv.org/abs/2501.13306 ; Qwen-Audio https://arxiv.org/abs/2311.07919 ; Qwen2-Audio https://arxiv.org/abs/2407.10759 ; Qwen2.5-Omni https://arxiv.org/abs/2503.20215 ; SALMONN https://arxiv.org/abs/2310.13289 ; Audio Flamingo https://arxiv.org/abs/2402.01831 ; AF2 https://arxiv.org/abs/2503.03983 ; AF3 https://arxiv.org/abs/2507.08128 ; SpiRit-LM https://arxiv.org/abs/2402.05755 ; Gemini 2.5 https://arxiv.org/abs/2507.06261
+
+## 6. Downloaded locally (2026-10-23; ESD on 2026-10-26)
+
+Set `download.dataset` in `config/config.yaml` to the dataset's name (`all` for all of them), then run `python scripts/download_data.py`. Every file is checked against the checksum its host publishes (except ESD, see the last column),
+and running the same command again after an interruption resumes the download (ESD is a single zip on Google Drive and starts again from the beginning). The data stays in `data/` and is not in git (several licences forbid sharing copies).
+
+| Dataset | `download.dataset` | Local folder | Content (measured) | Check |
+|---|---|---|---|---|
+| MCAE-SPPS | `mcae_spps` | `data/mcae_spps/` | 6,675 WAV files (48 kHz mono, 0.4–4.0 s, 2.3 h in total), unpacked into `audio/<emotion>/`; the file name is "actor + emotion + sentence number", e.g. `13171.wav` = actor 1 (male), angry, sentence 171; the labels, the 40 listeners' recognition rates and the intensity are in `Corpus information.xlsx`, rater information in `Rater information.xlsx`, raw ratings and analysis code in `Codes and Raw Data/` | 7 zips and 16 metadata files checked against OSF's SHA-256 |
+| THAI-SER | `thai_ser` | `data/thai_ser/` | 29 Parquet files (12.71 GB) with 27,854 rows; audio and labels are in the same files: the audio of up to 4 microphones (`mic_clip`, `mic_con`, `mic_middle`, `mic_zoom`) and columns such as the assigned emotion, the majority emotion, the agreement and actor information | checked against Hugging Face's SHA-256 |
+| nEMO | `nemo` | `data/nemo/` | 2 Parquet files (0.53 GB) with 4,481 rows: audio, emotion, raw and normalised text, speaker, gender, age | checked against Hugging Face's SHA-256 |
+| MESS | `mess` | `data/mess/` | 1,800 WAV files (24,414 Hz mono, 1.7–3.7 s, 1.3 h in total), unpacked into `audio/`. No official naming scheme comes with the data; the following is inferred from the file names: the first letter is the emotion (`A` angry, `C` calm, `H` happy, `S` sad, 450 each), the second letter the gender (`M` / `F`), then the speaker number (1–3 for each gender), then the sentence number (`V`, `T` or `M` plus two digits); e.g. `HM1V10_SCR.wav` | checked against Zenodo's MD5 |
+| ESD | `esd` | `data/esd/` | 35,000 WAV files (16 kHz mono, 1.1–8.1 s, 29.1 h in total: Mandarin 15.7 h, English 13.4 h), unpacked into `audio/Emotion Speech Dataset/`; 20 speakers, `0001`–`0010` speak Mandarin and `0011`–`0020` English; each speaker says the same 350 sentences once in each of the 5 emotions, stored as `<speaker>/<emotion>/<speaker>_<number>.wav`, with the emotion folders `Neutral`, `Angry`, `Happy`, `Sad` and `Surprise`; each speaker's text and emotion labels are in `<speaker>/<speaker>.txt` (tab-separated: number, text, emotion; the Mandarin speakers' labels are in Chinese, e.g. 中立, 生气) | Google Drive publishes no checksum: the zip's own CRCs are checked first, then a SHA-256 written in the script |
+
+These five datasets take about 26.1 GB locally (THAI-SER 17.3 GB, ESD 5.8 GB). Zips are kept after unpacking, so MCAE-SPPS, MESS and ESD take about twice their download size;
+THAI-SER and nEMO are Parquet files (reading them needs `pyarrow`), and on its first run `scripts/evaluate.py` extracts the audio it evaluates into each dataset's `audio/` folder (for THAI-SER the studio condenser microphone, or the Zoom recording for online sessions).
+ESD is for research only: before using it, complete the licence form as described on its [GitHub page](https://github.com/HLTSingapore/Emotional-Speech-Data) and email it to the authors.

diff --git a/README.md b/README.md
@@ -39,7 +39,8 @@ emotion_recognition/
 │   └── mcae_spps/ thai_ser/ nemo/ mess/ esd/   # more datasets like CREMA-D (optional downloads, not in git)
 ├── docs/
 │   ├── crema_d.md              # CREMA-D explained in Chinese: file names, labels, every column of the label files
-│   └── datasets_survey.md      # survey (in Chinese) of datasets like CREMA-D: parallel text, good labels, larger
+│   ├── datasets_survey.md      # survey (in Chinese) of datasets like CREMA-D: parallel text, good labels, larger
+│   └── datasets_survey_en.md   # the same survey in English
 ├── models/
 │   ├── README.md               # what each model file is, how to add models
 │   └── emotion2vec_plus_large/ # model.pt, config.yaml, configuration.json, tokens.txt (downloaded, not in git)
@@ -228,8 +229,8 @@ Emotional Multimodal Actors Dataset", *IEEE Transactions on Affective Computing*
 ### 3.4 More datasets like CREMA-D
 
 The same script downloads five more datasets that also record the same sentences in different emotions.
-They were chosen from the survey in [docs/datasets_survey.md](docs/datasets_survey.md), which has links, sizes and
-caveats for many more.
+They were chosen from the survey in [docs/datasets_survey_en.md](docs/datasets_survey_en.md) (Chinese:
+[docs/datasets_survey.md](docs/datasets_survey.md)), which has links, sizes and caveats for many more.
 
 ```bash
 python scripts/download_data.py   # with `download.dataset: mcae_spps` (or thai_ser, nemo, mess, esd; all = everything)
@@ -381,6 +382,8 @@ evaluation:
   devices:          # device per mode for evaluation
     mac: cpu        # on the Mac the CPU is faster than MPS here (see below)
     cuda: cuda:0
+  summary_acted_or_listener: [crema_d]  # in the summary figure, these datasets show the confusion matrix where the
+                                        # listeners' vote also counts as correct; the others show the acted emotion
 ```
 
 Each dataset has a loader in `scripts/eval_datasets.py` that reads its labels and maps them to emotion2vec+ classes;
@@ -391,7 +394,9 @@ to evaluate on a new dataset, add a loader there. For each dataset the script wr
 - `outputs/<dataset>_emotion2vec_plus_large_predictions.csv`: one row per clip (not in git) with the audio path, the
   labels, the model's prediction, whether it is correct, and all class probabilities. The JSON file next to it
   describes the columns and holds the metrics; [docs/crema_d.md](docs/crema_d.md) explains the CREMA-D columns in Chinese.
-- [`reports/emotion2vec_plus_large_summary.md`](reports/emotion2vec_plus_large_summary.md): every dataset side by side.
+- [`reports/emotion2vec_plus_large_summary.md`](reports/emotion2vec_plus_large_summary.md): every dataset side by side,
+  every dataset's confusion matrix in one figure (`reports/figures/emotion2vec_plus_large_summary_confusion.png`), and
+  a comparison on the emotions that every dataset has.
 
 The datasets name their emotions differently, and emotion2vec+ has nine output classes: angry, disgusted, fearful,
 happy, neutral, other, sad, surprised and `<unk>`. Each loader maps its dataset's labels to these classes:

diff --git a/reports/emotion2vec_plus_large_summary.md b/reports/emotion2vec_plus_large_summary.md
@@ -16,6 +16,12 @@ Generated by `scripts/evaluate.py` on 2026-10-26. Each dataset links to its full
 - **In EmoBox**: the dataset was probably part of emotion2vec+'s training data, so its result is optimistic. For the others, earlier exposure cannot be ruled out completely either (see each report).
 - **(sample)**: evaluated on clips taken at even intervals (`evaluation.limit`), not on every clip.
 
+## Confusion matrices
+
+![Confusion matrices of emotion2vec_plus_large on every dataset](figures/emotion2vec_plus_large_summary_confusion.png)
+
+One matrix per dataset, in the order of the table above, from each dataset's report. Rows: acted emotion; columns: predicted emotion; each row adds up to 100%. CREMA-D: the matrix where a prediction also counts as correct when it matches the listeners' vote, so a clip whose prediction matched that vote sits in the row of that vote (`evaluation.summary_acted_or_listener` in config/config.yaml).
+
 ## Only the emotions every dataset has: angry, happy, neutral, sad
 
 The datasets have different emotions, and some emotions are much harder than others, so the table above also reflects which emotions each dataset has. Here every dataset is scored on the same 4 emotions (chance 25.0%): clips of other emotions are left out, and the prediction is the most probable of these 4.

diff --git a/docs/datasets_survey.md b/docs/datasets_survey.md
@@ -1,5 +1,7 @@
 # 与 CREMA-D 同类的情感语音数据集调研
 
+英文版：[datasets_survey_en.md](datasets_survey_en.md)（内容相同）。
+
 调研日期：2026-10-23。目标：找到像 CREMA-D 那样"同一句话用不同情绪表达"（排除语义线索）、标签质量高、而且规模更大的数据集，
 用于评估情绪识别模型和音频大模型（audio LLM）。
 
